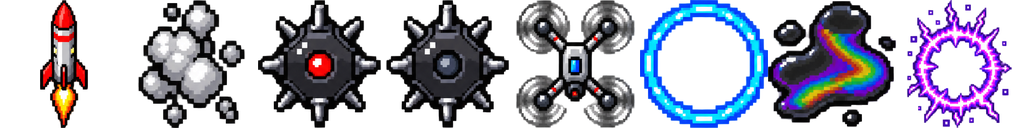
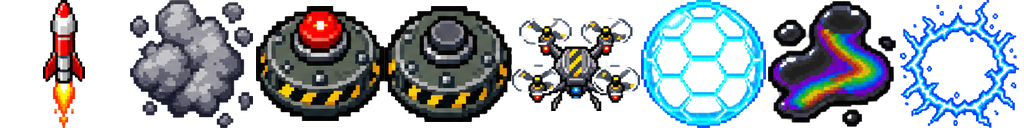
Assets: missiles, mines, drone, shield bubble, EMP ring and exhaust smoke from the elevated camera
Mapped into the existing projectiles strip order, so FRAMES.projectiles and the game code are unchanged.

diff --git a/scripts/build-assets.py b/scripts/build-assets.py
@@ -138,6 +138,26 @@ assert len(cubes) == 4, f'expected 4 item box frames, found {len(cubes)}'
 box = Image.new('RGBA', (128 * 4, 128), (0, 0, 0, 0))
 for i, c in enumerate(cubes): box.paste(fit(c, 128), (i * 128, 0))
 box.save(OUT / 'itembox.png')
+
+# Projectiles and effects from the elevated camera (assets/raw/items/projectiles-tilted.png), mapped into the existing
+# 8-frame strip order so FRAMES.projectiles stays valid: missile, exhaust, mine armed, mine unarmed, drone, shield, oil, emp.
+tilted = RAW / 'items' / 'projectiles-tilted.png'
+if tilted.exists():
+    raw = np.array(Image.open(tilted).convert('RGBA'))
+    raw[raw[..., 3] < 150] = 0
+    sheet = Image.fromarray(raw)
+    mask = raw[..., 3] > 0
+    cells = []
+    for (y0, y1) in [r for r in bands(mask, 1) if r[1] - r[0] > 30]:
+        cells += [sheet.crop((x0, y0, x1, y1)) for (x0, x1) in bands(mask[y0:y1], 0) if x1 - x0 > 30]
+    assert len(cells) == 8, f'expected 8 projectile sprites, found {len(cells)}'
+    missile, mine_on, mine_off, drone, shield, emp, smoke, _spark = cells
+    old_strip = Image.open(OUT / 'projectiles.png').convert('RGBA')
+    oil = old_strip.crop((6 * 128, 0, 7 * 128, 128))  # the drawn slick replaced this in game; keep the frame for order
+    strip = Image.new('RGBA', (128 * 8, 128), (0, 0, 0, 0))
+    for i, c in enumerate([missile, smoke, mine_on, mine_off, drone, shield, None, emp]):
+        strip.paste(oil if c is None else fit(c, 128), (i * 128, 0))
+    strip.save(OUT / 'projectiles.png')
 # Stadium decor (assets/raw/tiles/README.md): drum, tyres, pipe, elbow, tank, cone, hay, sign, floodlight, puddle, clump, grass, crowd x3.
 print('decor sprites:', split_sheet('decor', 'tiles', 128))
 

diff --git a/assets/raw/items/README.md b/assets/raw/items/README.md
@@ -10,3 +10,4 @@ All 1024x1024 RGBA PNG with real alpha, generated at quality `medium` per `asset
 | explosion.png | 2 rows x 6 | row 1 explosion: flash, growing fireball, big fireball with black smoke, dissipating smoke, thin smoke, gone (a few specks); row 2 hit spark: dot, small star, big burst, sparks flying, fading sparks, gone | truck death and weapon hits | horizontal spacing is not uniform (frames vary in width); last frames are near-empty as intended; faint warm glow alpha around the fireballs |
 | dust.png | 3 rows x 4 | row 1 tan dust puff (small to large, breaking apart), row 2 grey-white drift smoke puff, row 3 light blue water spray | tyre dust, drift smoke, water/mud splash | frame 4 of each row is already breaking up (fading), so the sequence reads grow-then-dissolve rather than pure growth; faint tinted glow alpha around each puff |
 | markers.png | 2 x 2 | lock-on bracket (four red corners, empty center), red warning triangle with exclamation, wrong-way sign (red plate, white left arrow), respawn pin with checkered flag | lock-on overlay around the target truck, off-track/wrong-way warnings, respawn point | wrong-way sign has no text (add in code if wanted); arrow points left only, mirror in code; respawn pin is drawn with a 3/4 view base, not strictly top-down |
+| projectiles-tilted.png | 4 x 2 | Elevated-camera sprites (gpt-image-2): missile, mine armed, mine unarmed, drone, shield bubble, EMP ring, smoke puff, spark. `build-assets.py` maps them into the projectiles strip order (smoke becomes the exhaust frame; the old oil frame is kept, the slick is drawn in code). Soft glow below alpha 150 is cut; the spark is unused. |
